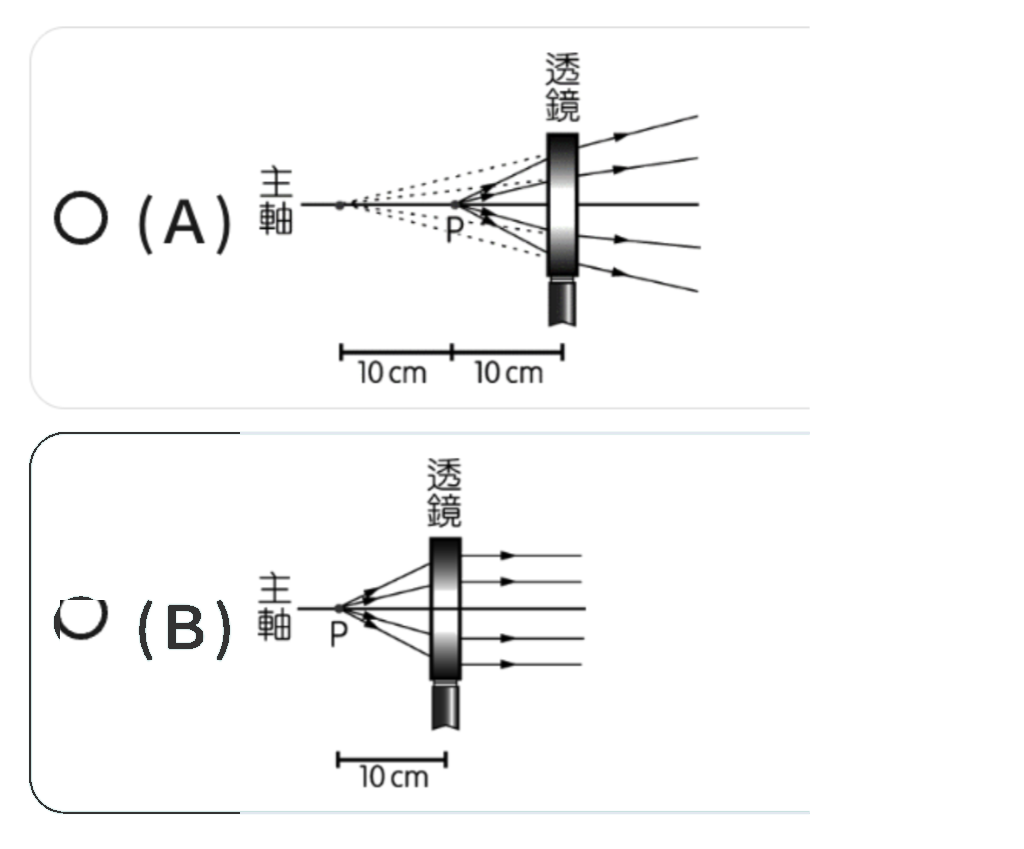
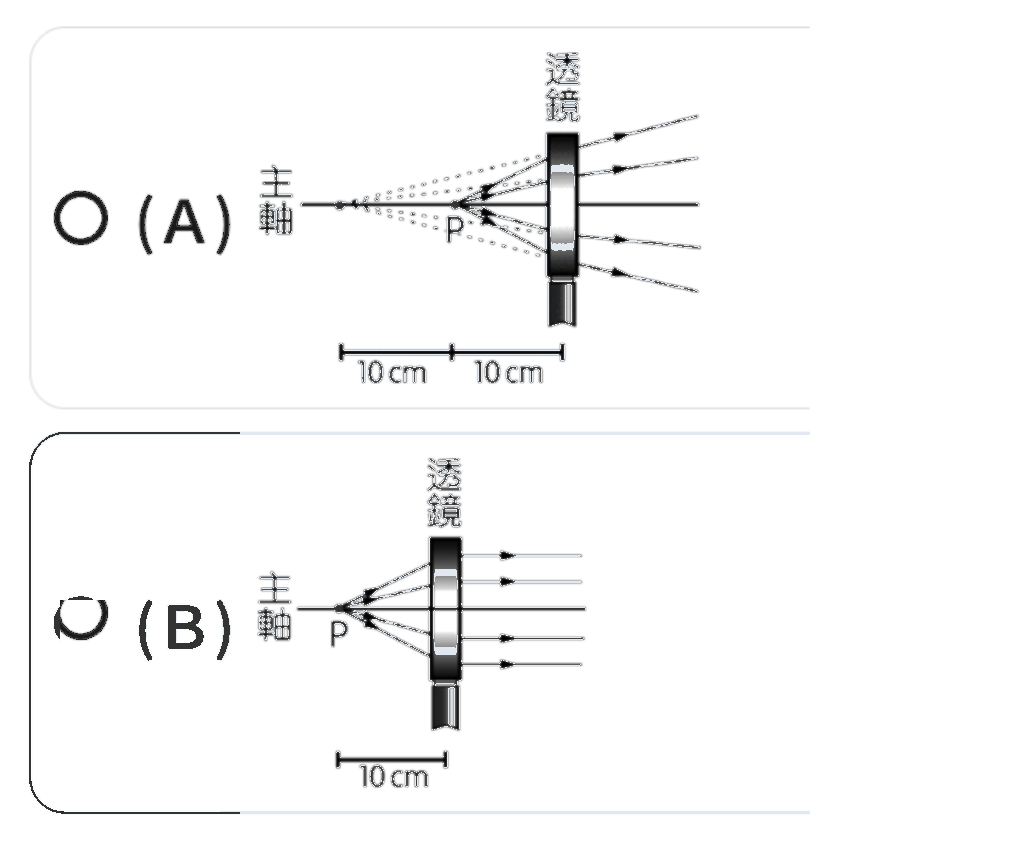
fix: Completely convert (B) option text to neutral black and normalize all card borders to eliminate answer traces

diff --git a/index.html b/index.html
@@ -963,18 +963,18 @@
 
 
   <!-- Main JavaScript App Modules -->
-  <script src="js/data.js?v=20"></script>
-  <script src="js/utils/katex_render.js?v=20"></script>
-  <script src="js/utils/pdf_export.js?v=20"></script>
-  <script src="js/modules/upload.js?v=20"></script>
-  <script src="js/modules/archive.js?v=20"></script>
-  <script src="js/modules/review.js?v=20"></script>
-  <script src="js/modules/sprint.js?v=20"></script>
-  <script src="js/modules/analytics.js?v=20"></script>
-  <script src="js/modules/calendar.js?v=20"></script>
-  <script src="js/modules/wisdom.js?v=20"></script>
-  <script src="js/modules/card.js?v=20"></script>
-  <script src="js/app.js?v=20"></script>
+  <script src="js/data.js?v=21"></script>
+  <script src="js/utils/katex_render.js?v=21"></script>
+  <script src="js/utils/pdf_export.js?v=21"></script>
+  <script src="js/modules/upload.js?v=21"></script>
+  <script src="js/modules/archive.js?v=21"></script>
+  <script src="js/modules/review.js?v=21"></script>
+  <script src="js/modules/sprint.js?v=21"></script>
+  <script src="js/modules/analytics.js?v=21"></script>
+  <script src="js/modules/calendar.js?v=21"></script>
+  <script src="js/modules/wisdom.js?v=21"></script>
+  <script src="js/modules/card.js?v=21"></script>
+  <script src="js/app.js?v=21"></script>
   <script>
     if ('serviceWorker' in navigator) {
       navigator.serviceWorker.getRegistrations().then(regs => {
